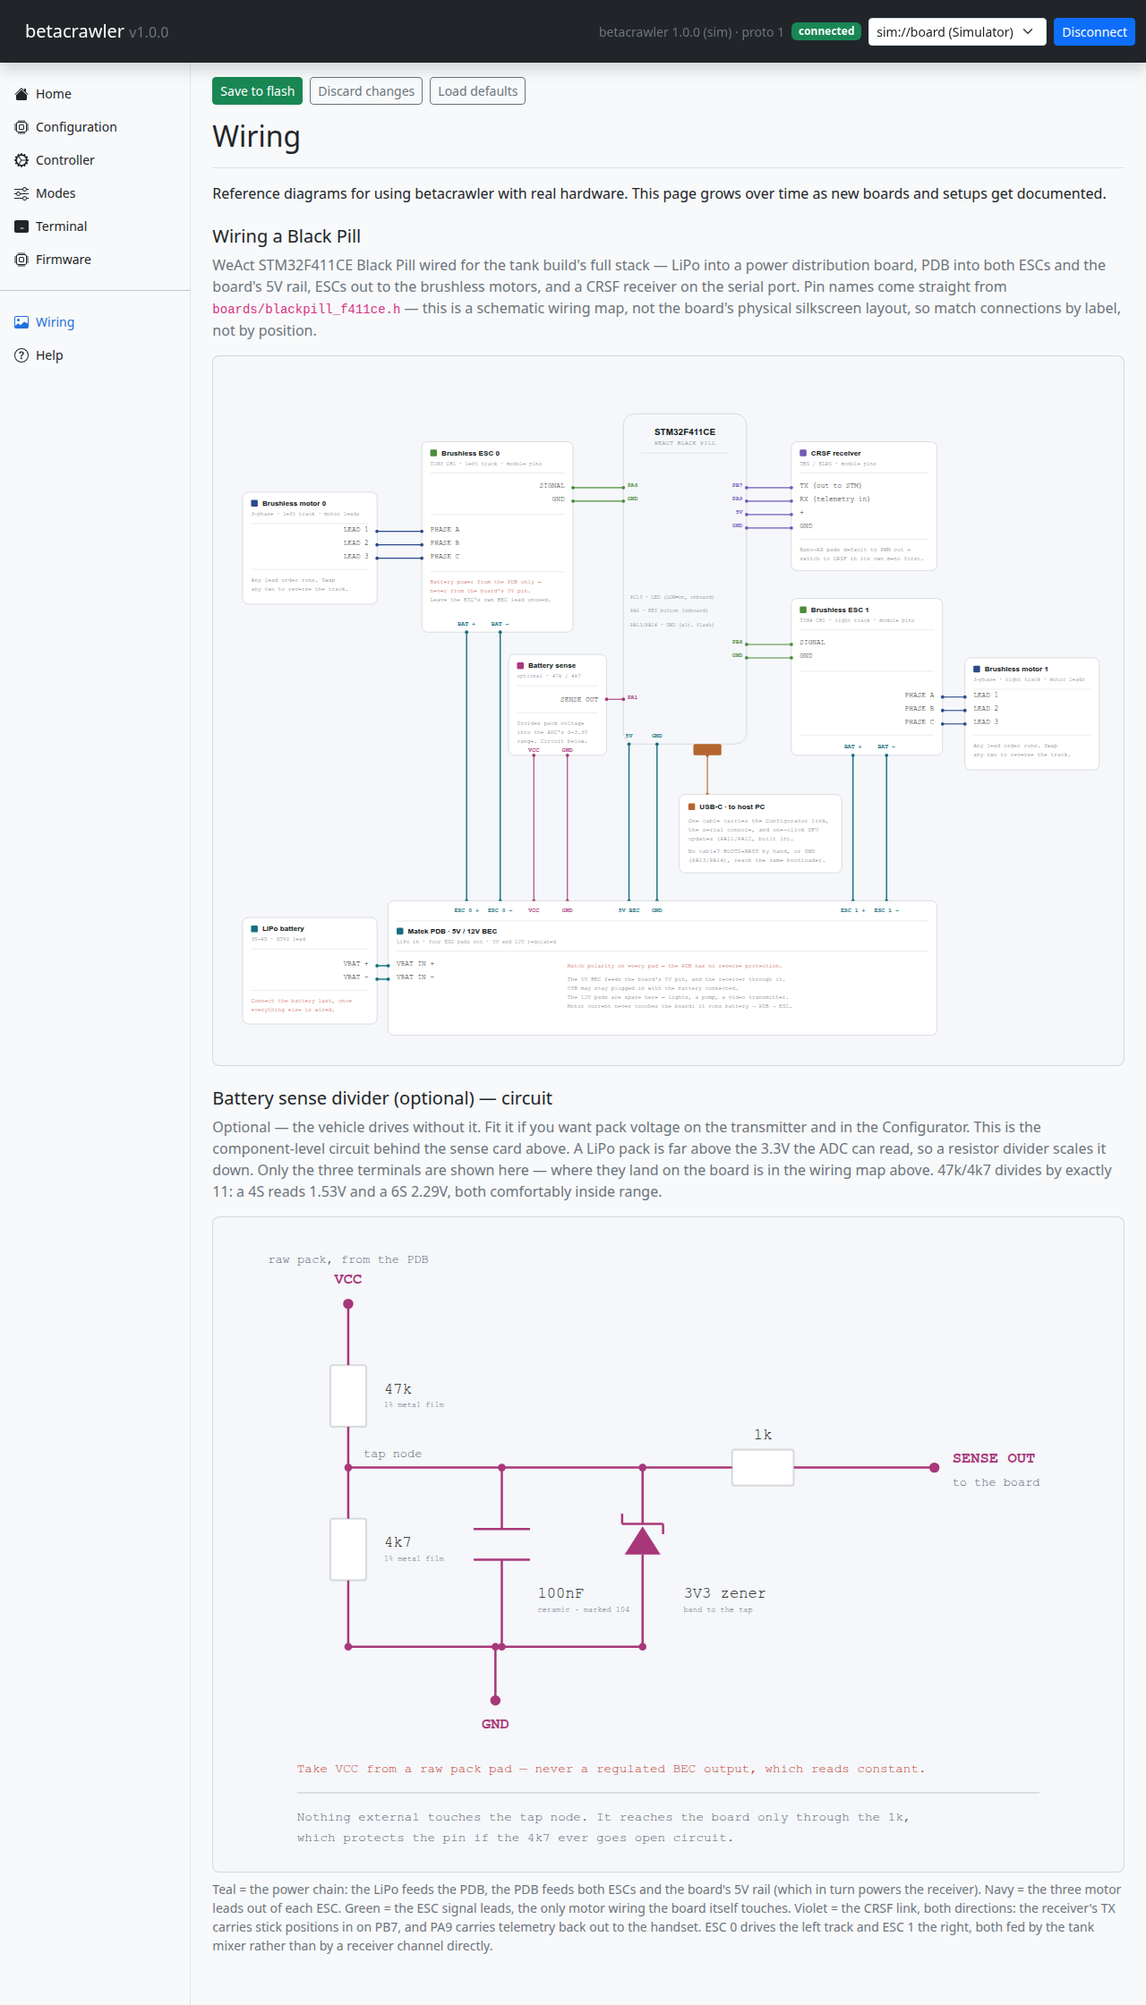
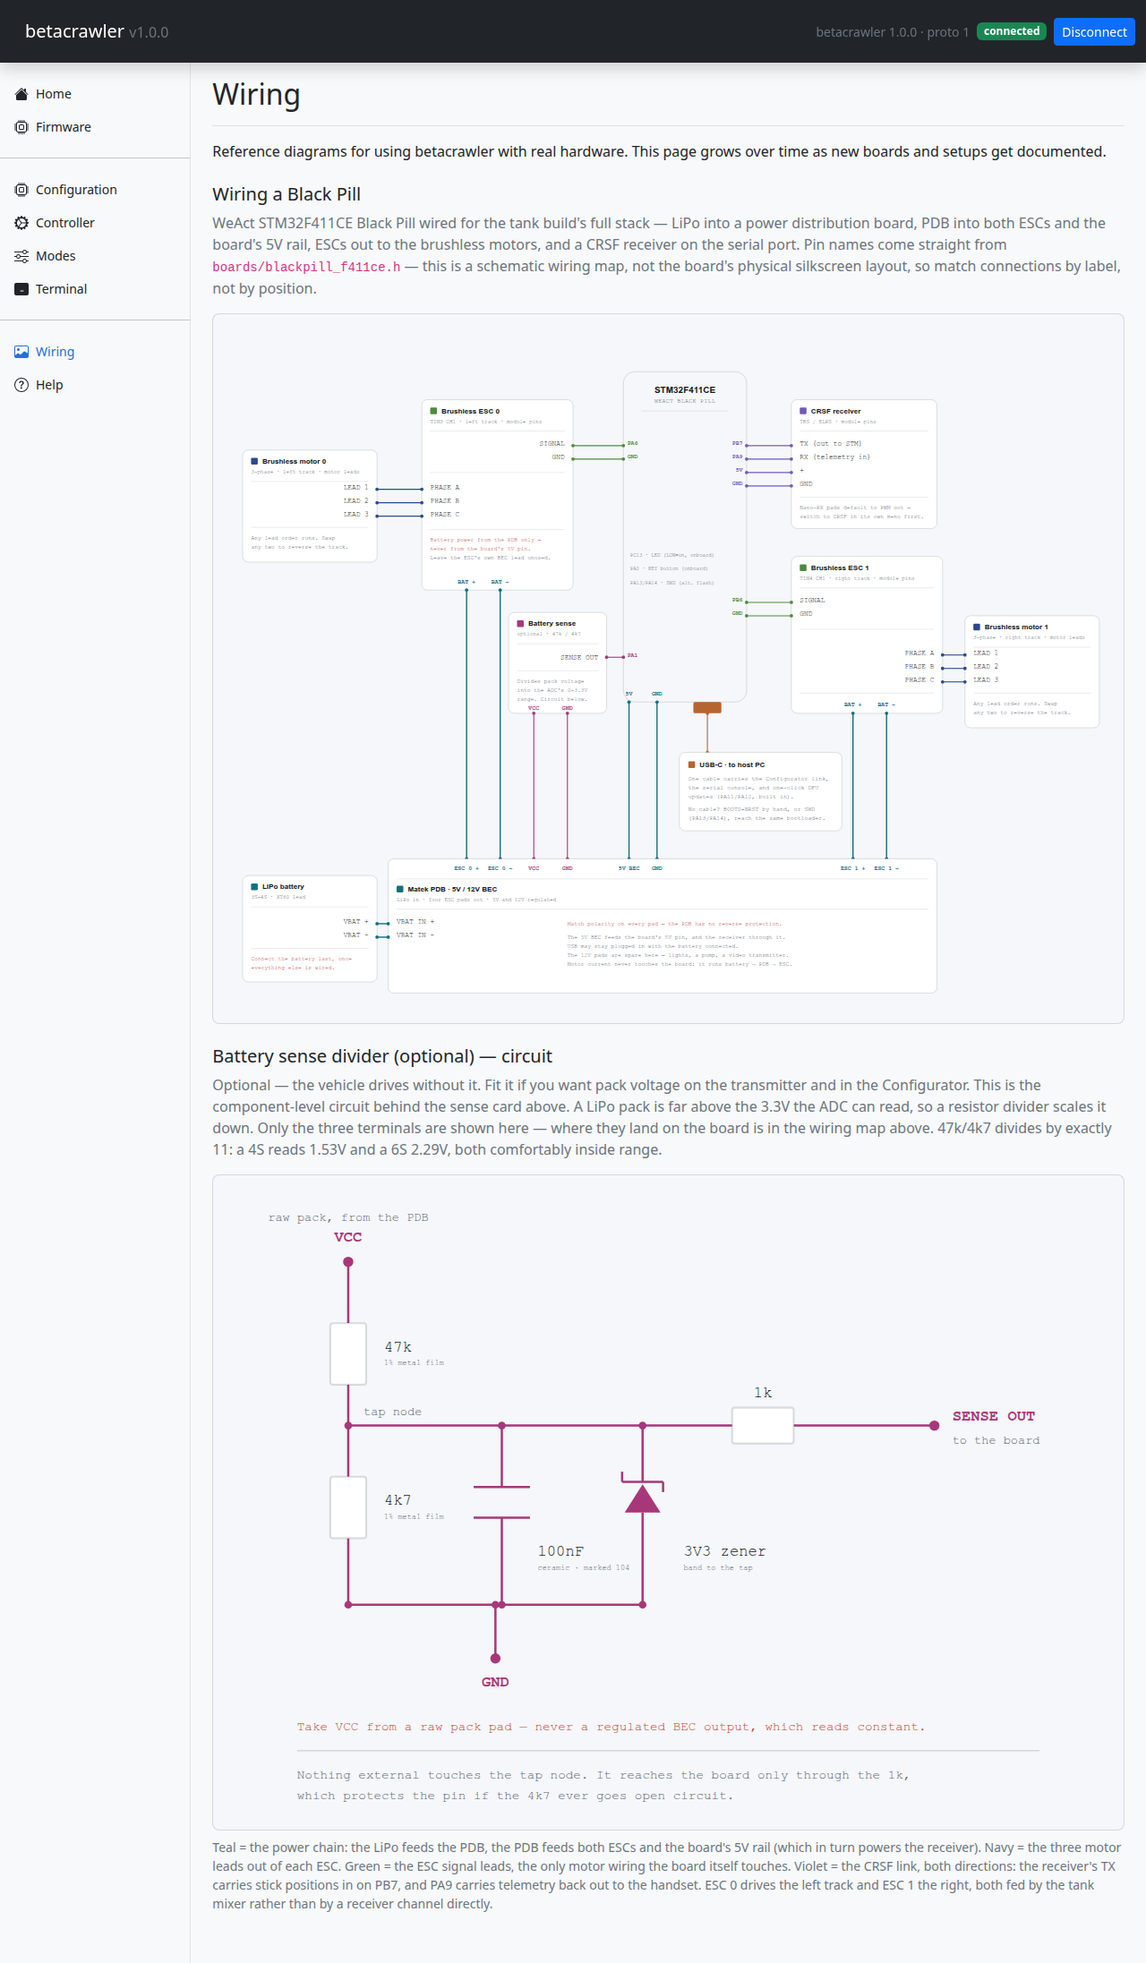
docs: rewrite the user docs around the browser app, and cover the F401
Everything user-facing was written against a Python server serving a UI to a
browser: create a venv, run ./run-server.sh, pick a port from a dropdown,
connect a simulated board. None of that is how the tool works now.

Install-and-connect becomes Connect-to-the-board: open the page, pick the
device in the browser's own picker, install it for offline use. The Chromium
requirement, the localhost/HTTPS rule and the Windows WinUSB (Zadig) step are
stated where they bite rather than left to be discovered.

STM32F401CE is documented as the board option it already is: which build env
it needs, that the two images are not interchangeable, how to read the chip's
own marking, and what an F411 image on an F401 looks like -- a board that
neither enumerates nor blinks, recoverable with BOOT0+NRST and no programmer.

Screenshots are recaptured from web-app against a real board over Web Serial;
the old ones show a port dropdown and a simulated device that no longer exist.

diff --git a/docs/build/flashing.md b/docs/build/flashing.md
@@ -1,13 +1,13 @@
 # Flashing the firmware
 
-The first flash needs an ST-Link. After that, the app updates the board over USB and you will not
-need the programmer again.
+The first flash needs an ST-Link. After that, the configurator updates the board over USB and you
+will not need the programmer again.
 
 ## Why the first one is different
 
-The app's one-click firmware update works by asking the running firmware to reboot into the
-STM32's built-in USB bootloader. A blank board has no firmware to ask, so the first image has to
-go in over SWD with a programmer.
+The one-click firmware update works by asking the running firmware to reboot into the STM32's
+built-in USB bootloader. A blank board has no firmware to ask, so the first image has to go in
+over SWD with a programmer.
 
 ## Wiring the ST-Link
 
@@ -20,9 +20,23 @@ Four wires from the ST-Link/V2 to the header on the short edge of the board:
 | GND | GND |
 | 3.3V | 3V3 |
 
+## Pick the build for your chip
+
+There is one build environment per Black Pill variant, and they are not interchangeable:
+
+| Your chip | Environment |
+|---|---|
+| STM32F411CE | `blackpill_f411ce` |
+| STM32F401CE | `blackpill_f401ce` |
+
+Read the marking on the chip itself rather than trusting the listing you bought it from — see
+[Which Black Pill](what-you-need.md#which-black-pill). An F411 image on an F401 hard-faults at
+boot and the board never enumerates over USB at all, which looks exactly like a dead board.
+
 ## Build and upload
 
-PlatformIO does both. It is not on your `PATH` by default, so call it by its full path:
+PlatformIO does both. It is not on your `PATH` by default, so call it by its full path, and
+substitute your own environment for `blackpill_f411ce` if you have the F401:
 
 ```bash
 cd firmware
@@ -40,15 +54,33 @@ Unplug the ST-Link and power the board over USB. The onboard LED should settle i
 one-beat-per-second blink — that is the firmware reporting itself healthy. Anything faster means
 a fault; see [Status LED](../reference/status-led.md).
 
+Connect the configurator and open the **Help** page: it names the board the running firmware was
+built for, which is the confirmation that you flashed the right one.
+
 ## Updating later
 
-Once the board runs Betacrawler, updates go through the app's **Firmware** page over USB. No
-programmer, no wires to move.
+![The configurator's Firmware page, offering an image for each supported board](../assets/screenshots/firmware.png)
+
+Once the board runs Betacrawler, updates go through the **Firmware** page in the configurator, over
+USB. No programmer, no wires to move. The app carries an image for each supported board and offers
+the one matching the board you last connected; it reboots the board into its bootloader, writes the
+image and lets the board restart itself.
+
+The first flash from a given browser asks you to pick the STM32 bootloader in a device picker, the
+same way connecting does. After that it is remembered.
+
+On Windows, a board in bootloader mode has to be bound to the WinUSB driver before a browser can
+see it. Use [Zadig](https://zadig.akeo.ie/) once, on the `STM32 BOOTLOADER` device. Linux and
+macOS need nothing.
 
 That page stays available even when no device is connected, on purpose: it is the recovery tool,
 so gating it on a working device would be backwards.
 
-If a board ever becomes unresponsive and will not appear for an update, you can reach the same
-built-in bootloader by hand: hold **BOOT0**, tap **NRST**, release **BOOT0**.
+## Recovering a board that will not come back
 
-Next: [Install and connect](../drive/install-and-connect.md).
+The bootloader lives in ROM and runs whatever state the firmware is in — including a board flashed
+with the wrong chip's image. Reach it by hand: hold **BOOT0**, tap **NRST**, release **BOOT0**.
+The board then appears as a DFU device, and the **Firmware** page can write to it with nothing
+else connected.
+
+Next: [Connect to the board](../drive/install-and-connect.md).

diff --git a/docs/drive/install-and-connect.md b/docs/drive/install-and-connect.md
@@ -1,53 +1,59 @@
-# Install and connect
+# Connect to the board
 
-The app is a small web server you run on your own machine. It talks to the board over USB and
-serves the interface to your browser.
+The configurator is a web page. Open it, plug the vehicle in over USB, and the page talks to the
+board directly — there is nothing to install and no server to run.
 
-## First time only
+**[Open the configurator →](https://tropotek.github.io/betacrawler/app/)**
 
-Create the Python environment the server runs in:
+## You need a Chromium-based browser
 
-```bash
-python3 -m venv app/.venv
-app/.venv/bin/pip install -r app/requirements.txt
-```
-
-## Starting it
-
-```bash
-./run-server.sh
-```
-
-Then open <http://127.0.0.1:9090>.
-
-It runs in the foreground: logs appear in that terminal, and Ctrl+C stops it. To use a different
-port:
-
-```bash
-PORT=9000 ./run-server.sh
-```
+Chrome, Edge, Brave and Opera all work. Firefox and Safari do not: talking to a USB serial device
+from a page uses the Web Serial API, which only Chromium-based engines implement. The app checks
+on load and tells you outright rather than failing halfway through a connection.
 
 ## Connecting to the board
 
-![The app's Home page, connected](../assets/screenshots/home.png)
+![The configurator's Home page, connected to a board](../assets/screenshots/home.png)
 
 1. Plug the board into a USB port.
-2. Pick it from the dropdown at the top right. A board running Betacrawler is labelled
-   **(STM32)**.
-3. Click **Connect**.
+2. Click **Connect**.
+3. Pick the board in the browser's device picker. It appears as an STMicroelectronics virtual COM
+   port — `/dev/ttyACM0` on Linux, `COM3` or similar on Windows.
 
-The badge next to the dropdown reads **connected** once it is talking to the board, along with
-the firmware version it found.
+The badge in the header reads **connected** once it is talking to the board. The **Help** page
+shows what it found: the firmware version, the board it was built for, and when it was built.
 
-## If there is no board yet
-
-The dropdown also offers **Simulated board (no hardware)**. It is a fake device built into the
-app that answers exactly as a real one would, so you can look around the interface before your
-parts arrive. Nothing it reports is real.
+The browser remembers a board you have picked before, so subsequent connections do not ask again.
 
 ## Pages that need a connection
 
-Most pages grey out until a device is connected. **Firmware** deliberately does not — it is the
-tool you need when a board is in a bad state, so it stays reachable.
+**Configuration**, **Controller**, **Modes** and **Terminal** appear in the sidebar once a board
+is connected, and the app returns you to Home if the connection drops.
+
+**Firmware** is always available, on purpose — it is the tool you need when a board is in a bad
+state, so it does not depend on that board working.
+
+## Using it offline
+
+The app installs like any other web app — Chrome offers an install button in the address bar —
+and works with no network afterwards. The firmware images it flashes are cached along with it, so
+a board can be recovered from a laptop with no internet at all.
+
+## Running your own copy
+
+You do not need to, but the app is a plain static site: any web server can host it, and the whole
+tree is in `web-app/` in the repository.
+
+```bash
+cd web-app
+python3 -m http.server 9091
+```
+
+Then open <http://localhost:9091>.
+
+The one constraint is that the USB APIs require a **secure context**: `localhost` or HTTPS.
+Serving the folder from a LAN address over plain HTTP loads the page but leaves it unable to
+connect to anything. The repository's `docker-compose.yml` runs Caddy over the same folder if you
+want that LAN deployment with a certificate.
 
 Next: [First setup](first-setup.md).

diff --git a/docs/troubleshooting.md b/docs/troubleshooting.md
@@ -2,7 +2,16 @@
 
 Symptoms in roughly the order you are likely to hit them.
 
-## The port does not appear in the dropdown
+## The app will not open, or says the browser is unsupported
+
+The configurator needs a Chromium-based browser — Chrome, Edge, Brave or Opera. Firefox and
+Safari have no Web Serial API and cannot talk to a board at all.
+
+If you are running your own copy of the app rather than the hosted one, it also has to be served
+from `localhost` or over HTTPS. A page served from a LAN address over plain HTTP loads, but the
+browser withholds the USB APIs and **Connect** does nothing useful.
+
+## The board does not appear in the browser's device picker
 
 Most often the cable. Plenty of USB cables carry power only, and a charge-only cable makes the
 board look dead while the LED blinks away happily.
@@ -10,7 +19,19 @@ board look dead while the LED blinks away happily.
 Check the LED first: if it is blinking once a second, the board is fine and the problem is
 between it and your computer. Try another cable, then another port.
 
-A board running Betacrawler is labelled **(STM32)** in the dropdown.
+The board shows up as an STMicroelectronics virtual COM port — `/dev/ttyACM0` on Linux, a `COM`
+port on Windows. If it is listed but connecting fails, something else probably has the port open:
+a serial monitor, or another tab running the app.
+
+## The board went dark after its first flash and never appears
+
+You flashed the wrong chip's image. An F411 build on an F401 hard-faults before USB comes up, so
+the board neither enumerates nor blinks — see
+[Which Black Pill](build/what-you-need.md#which-black-pill).
+
+Read the marking on the chip, then flash the matching build. You do not need the ST-Link back for
+this: hold **BOOT0**, tap **NRST**, release **BOOT0**, and flash the right image from the
+**Firmware** page.
 
 ## The board connects, then drops out when the motors run
 
@@ -74,7 +95,15 @@ Reach the built-in bootloader by hand: hold **BOOT0**, tap **NRST**, release **B
 **Firmware** page stays available even with nothing connected, which is exactly when you need it.
 
 One thing to know: every STM32F4 in bootloader mode identifies itself the same way, so a board in
-that state cannot be told apart from any other. Only have the one you are flashing plugged in.
+that state cannot be told apart from any other. Only have the one you are flashing plugged in, and
+pick the image for your own chip yourself — the app cannot recommend one for a board it has not
+spoken to.
+
+## A board in bootloader mode is invisible on Windows
+
+Windows binds it to ST's own DfuSe driver, which a browser cannot use. Run
+[Zadig](https://zadig.akeo.ie/) once against the `STM32 BOOTLOADER` device and replace that driver
+with **WinUSB**. Linux and macOS need nothing.
 
 ## My receiver is not ELRS or Crossfire
 

diff --git a/readme.md b/readme.md
@@ -15,10 +15,17 @@ steering limits, the arming switch, firmware updates.
 
 ## What you need
 
-A Black Pill (STM32F411CE), an ELRS receiver, two BLHeli-S ESCs in bidirectional mode, two
-brushless motors, a power distribution board, a LiPo, and a tracked chassis. Full list and wiring
-in
+A Black Pill (STM32F411CE or STM32F401CE), an ELRS receiver, two BLHeli-S ESCs in bidirectional
+mode, two brushless motors, a power distribution board, a LiPo, and a tracked chassis. Full list
+and wiring in
 **[What you need](https://tropotek.github.io/betacrawler/build/what-you-need/)**.
+
+## The configurator
+
+**[tropotek.github.io/betacrawler/app/](https://tropotek.github.io/betacrawler/app/)** — a web page
+that talks to the board over USB. Nothing to install, no server to run; it needs a Chromium-based
+browser (Chrome, Edge, Brave, Opera), because Web Serial and WebUSB are what it drives the board
+with.
 
 ## Quickstart
 
@@ -32,16 +39,15 @@ Install the recommended PlatformIO extension when VS Code offers it, then follow
 **[Build](https://tropotek.github.io/betacrawler/build/what-you-need/)** in the docs for the full
 walkthrough — wiring, flashing the firmware, and getting the app talking to the board.
 
-To run the configurator:
+To serve the configurator from your own checkout:
 
 ```bash
-python3 -m venv app/.venv
-app/.venv/bin/pip install -r app/requirements.txt
-./run-server.sh
+cd web-app
+python3 -m http.server 9091
 ```
 
-Then open <http://127.0.0.1:9090>. No board yet? Pick **Simulated board** in the port dropdown to
-look around.
+Then open <http://localhost:9091>. It has to be `localhost` or HTTPS — the browser withholds its
+USB APIs from anything else.
 
 ## License
 
@@ -53,11 +59,11 @@ the Free Software Foundation. It is distributed in the hope that it will be usef
 any warranty** — without even the implied warranty of merchantability or fitness for a particular
 purpose. See [`LICENSE`](LICENSE) for the full text, or <https://www.gnu.org/licenses/>.
 
-That covers the firmware, the backend and the web UI. If you fork this as the base for your own
+That covers the firmware and the configurator. If you fork this as the base for your own
 board, the GPL comes with it: distributing a device running derived firmware means offering the
 corresponding source to whoever you gave the device to.
 
 Third-party components keep their own licenses and are not covered by the above: Bootstrap and
-Alpine.js (both MIT) are vendored in `app/web/vendor/`, and ArduinoJson (MIT), the GFX Library
+Alpine.js (both MIT) are vendored in `web-app/vendor/`, and ArduinoJson (MIT), the GFX Library
 for Arduino and the STM32 Arduino core are pulled in at build time by PlatformIO. All are
 GPL-compatible.

diff --git a/docs/build/what-you-need.md b/docs/build/what-you-need.md
@@ -8,7 +8,7 @@ you picked.
 
 | Part | Qty | What matters |
 |---|---|---|
-| WeAct Black Pill, STM32F411CE | 1 | The USB-C revision. This is the board the firmware is built for. |
+| WeAct Black Pill, STM32F411CE or STM32F401CE | 1 | The USB-C revision. Both chips are supported — see [Which Black Pill](#which-black-pill) below. |
 | ELRS receiver | 1 | Must expose a CRSF-capable output pad. Crossfire works too. |
 | Brushless ESC, BLHeli-S | 2 | Must support **bidirectional** mode. One per track. |
 | Brushless motor | 2 | Sized for your chassis, matched to the ESCs' current rating. |
@@ -16,6 +16,29 @@ you picked.
 | LiPo battery | 1 | Sized for the motors. Feeds the PDB, **not** the board directly. |
 | USB-C cable | 1 | A data cable. Charge-only cables are a common and confusing failure. |
 | ST-Link/V2 | 1 | For the first flash only. You can borrow one — it is not needed again. |
+
+You also need a computer running a Chromium-based browser — Chrome, Edge, Brave or Opera. That is
+what the configurator runs in, and it is the only kind of browser that can talk to the board.
+
+## Which Black Pill
+
+WeAct sells the same board with either an **STM32F411CE** or an **STM32F401CE** on it. Betacrawler
+supports both, and ships a firmware image for each. The pinout, the wiring and every setting in
+this documentation are identical — the F401 is the smaller chip (96 KB of RAM at 84 MHz against
+the F411's 128 KB at 100 MHz), and nothing here needs the difference.
+
+What you cannot do is flash one chip's image onto the other. The two have different memory maps,
+and an F411 image on an F401 hard-faults before USB even comes up: the board goes dark and never
+appears to your computer at all.
+
+So check which one you have before the first flash. The chip's own marking is the only reliable
+answer — read the top line on the square chip in the middle of the board, `STM32F411CEU6` or
+`STM32F401CEU6`, with a magnifier if you need one. Boards sold as F411 that turn out to be
+populated with an F401 are common enough to be worth ruling out; the silkscreen and the listing
+are not evidence.
+
+Once the board is running Betacrawler, the **Help** page reports which chip its firmware was built
+for, and the **Firmware** page offers the matching image by default.
 
 ## Why the ESCs must be bidirectional
 

diff --git a/docs/index.md b/docs/index.md
@@ -13,10 +13,16 @@ the app builds the controls from that.
 ## How the parts fit together
 
 ```
-  STM32 board  ──USB serial──  backend  ──HTTP+WebSocket──  browser
-  reads the receiver,          bridges the                  the app you
-  drives the ESCs              serial link                  configure with
+  STM32 board  ──USB serial──  browser
+  reads the receiver,          the configurator,
+  drives the ESCs              running as a web page
 ```
+
+The configurator talks to the board directly, from the page:
+**[tropotek.github.io/betacrawler/app/](https://tropotek.github.io/betacrawler/app/)**. There is
+nothing to install and no server to run — but it needs a Chromium-based browser (Chrome, Edge,
+Brave, Opera), because Chromium is the only engine that has the USB APIs it uses. Firefox and
+Safari cannot drive a board, and the app says so on load rather than failing later.
 
 ## What you can do from the app
 
@@ -32,7 +38,7 @@ the app builds the controls from that.
 
 Work through the Build section in order — [What you need](build/what-you-need.md),
 [Wiring](build/wiring.md), [Flashing the firmware](build/flashing.md) — then Drive it, where
-[Install and connect](drive/install-and-connect.md) gets the app talking to the board and
-[First setup](drive/first-setup.md) decides whether the vehicle actually drives.
+[Connect to the board](drive/install-and-connect.md) opens the app and finds your vehicle, and
+[First setup](drive/first-setup.md) decides whether it actually drives.
 
 If something is not behaving, [Troubleshooting](troubleshooting.md) lists the usual causes.

diff --git a/CHANGELOG.md b/CHANGELOG.md
@@ -8,6 +8,9 @@ Summaries of completed work. Detail, reasoning and hardware-verification records
 - **feat: the configurator is published with the docs.** The docs workflow copies `web-app/` into
   the built site, so the app is served from `https://tropotek.github.io/betacrawler/app/`.
 
+- **docs: the user docs describe the browser app, and the F401 as a board option.** Screenshots
+  recaptured against a real board; `dev-docs/api.md` is replaced by `dev-docs/protocol.md`.
+
 - **feat: the pages that need a board are a sidebar section of their own.** Configuration,
   Controller, Modes and Terminal — Terminal joins them, having previously been reachable with
   nothing connected — now live in one group that is hidden outright while disconnected, rather

diff --git a/docs/build/wiring.md b/docs/build/wiring.md
@@ -23,6 +23,10 @@ position on the diagram.
 | Battery sense *(optional)* | PA1 | The sense divider's output |
 | Status LED | PC13 | On the board already, nothing to wire |
 
+The two Black Pill variants are pin-compatible, so everything here is the same whether your board
+carries an STM32F411CE or an STM32F401CE. Only the firmware image differs — see
+[Which Black Pill](what-you-need.md#which-black-pill).
+
 PA9 is the board's CRSF transmit line. It carries telemetry back to your handset &mdash; pack
 voltage today, and anything added later.
 

diff --git a/docs/reference/parameters.md b/docs/reference/parameters.md
@@ -12,8 +12,8 @@ flash**.
 |---|---|---|---|
 | Device Name | `device.name` | `betacrawler` | up to 31 characters |
 
-A label for your own benefit, shown in the app's header. Useful if you have more than one
-vehicle.
+A label for your own benefit, on the **Configuration** page and in a settings backup. Useful if
+you have more than one vehicle.
 
 ## Telemetry
 
